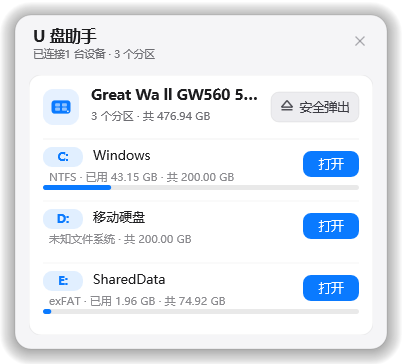
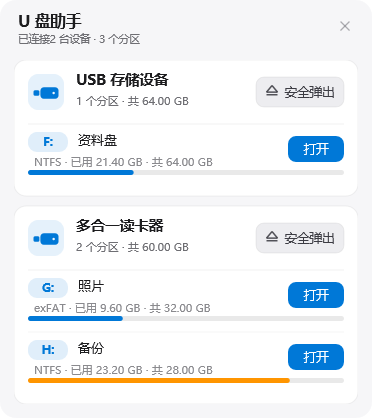
docs: 更新主界面与设置界面截图，并同步 README 中过时的功能、结构与配置说明

diff --git a/README.md b/README.md
@@ -5,7 +5,7 @@
 <h1 style="line-height:1;">🚀 U 盘助手 (USB assistant)</h1>
 
 ![平台](https://img.shields.io/badge/platform-Windows%2010%20%2F%2011-0078D6?logo=windows)
-![语言](https://img.shields.io/badge/language-C%2B%2B17-00599C?logo=cplusplus)
+![语言](https://img.shields.io/badge/language-C%2B%2B20-00599C?logo=cplusplus)
 ![许可证](https://img.shields.io/badge/license-MIT-green)
 
 </div>
@@ -28,9 +28,10 @@
 - [x] **占用检测与解除**：枚举系统句柄定位占用进程，可一键结束后再弹出；`explorer.exe` 只关闭相关窗口、绝不结束，系统关键进程一律跳过。
 - [x] **管理员模式**：需要提权的操作统一弹出带 UAC 盾牌的自绘确认框，确认后用 `runas` 启动同一个 exe 的 `--helper` 执行弹出 / 解除占用 / 挂载 / 取消挂载并回传结果；主程序无需重启，已具管理员权限时直接执行。
 - [x] **托盘常驻**：左键显示窗口，右键自绘菜单（显示 / 设置 / 退出）；启动后延迟补注册一次、之后每 15s 检查图标是否仍在，资源管理器重启后自动恢复。Windows 11 可能把新图标放进任务栏溢出区，这是系统行为，可在「设置 → 个性化 → 任务栏 → 其他系统托盘图标」中固定。
-- [x] **边缘悬浮图标**：窗口拖到屏幕工作区边缘后收起为 42px 圆角悬浮图标，点击从对应方向滑入恢复；任务栏所在边不参与判定。
-- [x] **设置**：开机自启动、始终置顶、默认位置、容量进制、关闭按钮功能、无设备自动隐藏、靠边收起、主界面最大高度、刷新间隔、显示无盘符分区（可展开分别控制 ESP / MSR / 其他）。
-- [x] **外观**：Direct2D 圆角卡片、淡入淡出、滚动动画、明暗配色、高 DPI 自适应；窗口/托盘菜单/设置窗口都按所在显示器的工作区定位，多显示器下不会跳回主屏。配置保存在程序目录 `config.ini`，不可写时退回 `%APPDATA%\UsbAssistant`。
+- [x] **边缘悬浮图标**：窗口拖到屏幕工作区边缘后收起为 42px 圆角悬浮条，图标由矢量绘制（沿用软件图标的三角形 + 底座造型，浅色主题纯黑、深色主题纯白），点击从对应方向滑入恢复；任务栏所在边不参与判定。
+- [x] **设置**：开机自启动、启动时检查更新、始终置顶、快捷键、默认位置、容量进制、关闭按钮功能、无设备自动隐藏、靠边收起、主界面最大高度、刷新间隔、显示无盘符分区（可展开分别控制 ESP / MSR / 其他）。
+- [x] **外观**：Direct2D 圆角卡片、淡入淡出、滚动动画、明暗配色、高 DPI 自适应；边缘悬浮条使用分层窗口逐像素透明 + GDI+ 抗锯齿矢量绘制，圆角外完全透明；窗口/托盘菜单/设置窗口都按所在显示器的工作区定位，多显示器下不会跳回主屏。配置保存在程序目录 `config.ini`，不可写时退回 `%APPDATA%\UsbAssistant`。
+- [x] **检查更新**：启动 5 秒后自动检查（默认开启，可在设置中关闭），也可在「关于」中手动检查；检查、下载与替换由独立的 `UsbAssistantUpdater.exe` 完成，按 Release/Debug 与 x64/x86 匹配对应压缩包，替换后自动重新启动主程序。
 - [x] **单实例**：再次启动会激活已有窗口，不会重复驻留。
 
 ## 目录结构
@@ -54,11 +55,18 @@ UsbAssistant/
     │   ├── devices.h/.cpp   # USB 设备与分区枚举
     │   ├── eject.h/.cpp     # 安全弹出三级流程
     │   ├── occupants.h/.cpp # 句柄扫描、结束占用、关闭资源管理器窗口
-    │   └── elevation.h/.cpp # 提权助手协议
+    │   ├── elevation.h/.cpp # 提权助手协议
+    │   ├── app_control.*    # 单实例查找、优雅退出与重启
+    │   ├── update.h/.cpp    # Release 版本与资产匹配
+    │   ├── http.h/.cpp      # WinHTTP 下载
+    │   ├── zip.h/.cpp       # 更新包解压
+    │   ├── log.h/.cpp       # 诊断日志
+    │   └── version.h        # 版本号与展示标识
     ├── app/
     │   ├── application.h/.cpp # 业务编排：窗口/托盘/设置/对话框/任务
     │   ├── post_target.h       # 后台结果的安全回传目标
-    │   └── worker.h/.cpp      # 串行后台任务队列
+    │   ├── worker.h/.cpp      # 串行后台任务队列
+    │   └── updater_app.h/.cpp  # 独立升级器：检查、下载、替换、重启
     └── ui/
         ├── theme.h/.cpp         # 明暗配色
         ├── canvas.h/.cpp        # 分层窗口离屏画布
@@ -66,8 +74,12 @@ UsbAssistant/
         ├── draw.h/.cpp          # 图形、图标、开关、复选框
         ├── main_view.h/.cpp     # 主界面 layout / paint / hit-test / 鼠标
         ├── settings_window.*    # 设置窗口
+        ├── about_window.*       # 关于窗口（版本与检查更新入口）
+        ├── updater_window.*     # 升级器进度窗口
+        ├── message_dialog.*     # 自绘提示 / 确认框
         ├── tray_menu.*          # 自绘托盘菜单
-        └── edge_bar.*           # 边缘悬浮条
+        ├── edge_bar.*           # 边缘悬浮条（分层窗口 + GDI+ 矢量图）
+        └── dpi.h                # DPI 辅助
 ```
 
 ## 构建
@@ -109,6 +121,7 @@ ctest --test-dir build --output-on-failure
 - `--autostart`：开机自启标记，启动后只驻留托盘、不显示主窗口（由设置中的「开机自启动」写入启动文件夹快捷方式）。
 - 主窗口可拖动；开启「靠边收起」后拖到屏幕边缘会变成悬浮条。
 - 托盘左键显示窗口，右键打开菜单。
+- 设置中可录制「显示/隐藏主面板」的全局快捷键（默认未设置）；有悬浮条时按快捷键会从悬浮条直接恢复。
 - 「关闭」按钮默认**隐藏到托盘**，保证托盘图标常驻；也可在设置中改为「退出程序」，并可关闭退出确认。
 
 ## 配置
@@ -126,7 +139,12 @@ ctest --test-dir build --output-on-failure
 | `SkipCloseConfirm` | `0` | `1` 关闭时不再确认 |
 | `EmptyHideSec` | `0` | 无设备自动隐藏秒数，`0` 不隐藏 |
 | `EdgeCollapse` | `0` | `1` 允许拖到屏幕边缘收起 |
+| `AutoCheckUpdates` | `1` | `1` 启动 5 秒后自动检查更新 |
+| `HotkeyMods` / `HotkeyVk` | `0` / `0` | 全局快捷键的修饰键与虚拟键码，`0` 表示未设置 |
 | `ShowHiddenPartitions` | `0` | `1` 显示无盘符分区（ESP / MSR / 未挂载） |
+| `ShowEspPartitions` | `1` | 显示 ESP 分区（在显示无盘符分区时生效） |
+| `ShowMsrPartitions` | `1` | 显示 MSR 分区（在显示无盘符分区时生效） |
+| `ShowOtherHiddenPartitions` | `1` | 显示其他无盘符分区（在显示无盘符分区时生效） |
 | `MainHeight` | `90` | 主界面最大高度（可用高度百分比，20–100） |
 | `HasLastPos` / `LastX` / `LastY` | `0` / `0` / `0` | 上次窗口位置（`PosMode=1` 时使用） |
 
@@ -152,7 +170,7 @@ ctest --test-dir build --output-on-failure
 
 ## 测试与验证
 
-- 开启 `USBASSISTANT_BUILD_TESTS` 后，`ctest` 覆盖：字符串清洗、容量格式化、配置读写与范围归一化、提权参数编解码、危险设备号的安全返回、无盘符目标处理。
+- 开启 `USBASSISTANT_BUILD_TESTS` 后，`ctest` 覆盖：字符串清洗、容量格式化、配置读写与范围归一化、日志行格式、版本比较与 Release 资产匹配、更新包解压、提权参数编解码、危险设备号的安全返回、无盘符目标处理、占用进程存活判定。
 - 已人工验证：空状态、明暗主题、多设备滚动、设置窗口、托盘菜单、关闭确认、边缘悬浮条收起/恢复、单实例、托盘退出、配置持久化。
 - 设备枚举与真实弹出依赖实际 USB 硬件；本机无 USB 存储设备时只验证了空状态与逻辑分支。建议插入 U 盘/移动硬盘后重点验证：多分区设备、被占用设备、管理员模式弹出、读卡器介质弹出。
 
